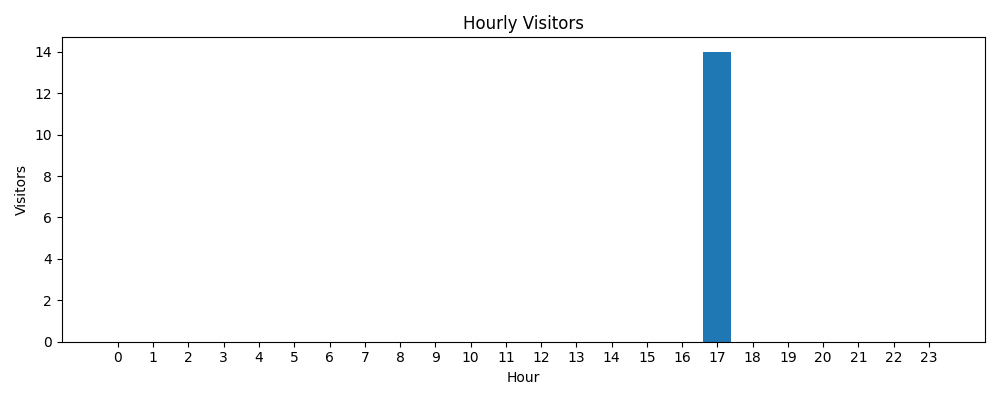
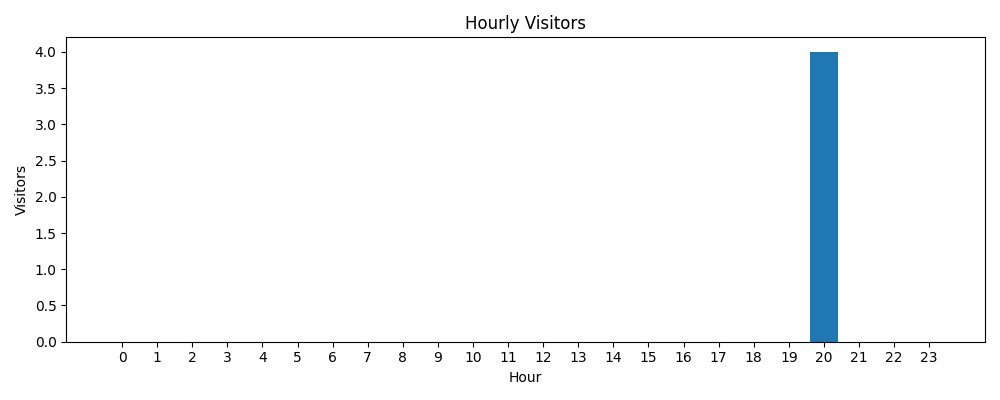
Refactor: move dashboard into separate module

diff --git a/dashboard.html b/dashboard.html
@@ -38,6 +38,15 @@
             border-radius:15px;
             text-align:center;
         }
+        .card ul{
+        margin-top:15px;
+        padding-left:20px;
+        }
+
+        .card li{
+        margin-bottom:10px;
+        font-size:18px;
+        }
 
         .value{
             font-size:42px;
@@ -86,6 +95,18 @@
 <div class="value">{{data.risk_score}}</div>
 </div>
 
+
+
+<div class="card">
+    <h2>AI Recommendation</h2>
+    <ul>
+    {% for rec in data.recommendation %}
+        <li>{{ rec }}</li>
+    {% endfor %}
+    </ul>
+</div>
+
+
 </div>
 
 <div class="section">
@@ -112,6 +133,16 @@
 
 <img src="/static/heatmap.png">
 </div>
+
+
+
+<script>
+setInterval(() => {
+    location.reload();
+}, 5000);
+</script>
+
+
 
 </body>
 

diff --git a/main.py b/main.py
@@ -15,16 +15,17 @@ from reports import save_daily_summary
 from flask import Flask, Response, render_template_string
 from dashboard_data import get_latest_summary
 from live_data import live_metrics
-
-
-
+from recommendations import get_recommendation
+from dashboard import start_dashboard
+import dashboard
 with open("dashboard.html", "r", encoding="utf-8") as f:
     HTML = f.read()
-app = Flask(__name__) 
 
 
 
-processed_frame = None
+
+
+
 last_dashboard_update = 0
 
 from config import (
@@ -121,12 +122,12 @@ from utils import (
 
 
 def run_detector():
-    global processed_frame
+    
     global enter_count, exit_count
     global next_id
     global current_day
     global peak_occupancy
-    global processed_frame
+    
     global last_dashboard_update
 
     print("RUN DETECTOR STARTED")
@@ -342,7 +343,7 @@ def run_detector():
         live_metrics["risk_score"] = round(
         occupancy_score + dwell_score + flow_score,1
     )  
-
+        live_metrics["recommendation"] = get_recommendation(live_metrics)
 
         heat = get_heatmap()
        
@@ -360,7 +361,7 @@ def run_detector():
         0
     )
     
-        processed_frame = frame.copy()
+        dashboard.processed_frame = frame.copy()
 
         dwell_times = [
         p["total_time"] + (now - p["enter_time"] if p["inside"] and p["enter_time"] else 0)
@@ -393,42 +394,13 @@ def run_detector():
 from threading import Thread
 
 
-def generate_frames():
-    global processed_frame
-
-    while True:
-        if processed_frame is None:
-            continue
-
-        ret, buffer = cv2.imencode(".jpg", processed_frame)
-        frame = buffer.tobytes()
-
-        yield (
-            b'--frame\r\n'
-            b'Content-Type: image/jpeg\r\n\r\n'
-            + frame +
-            b'\r\n'
-        )
 
 
-@app.route("/video_feed")
-def video_feed():
-    return Response(
-        generate_frames(),
-        mimetype="multipart/x-mixed-replace; boundary=frame"
-    )
 
 
-@app.route("/")
-def home():
-    data = {
-        "total_visits": live_metrics["visitors"],
-        "current_occupancy": live_metrics["occupancy"],
-        "peak_hour": live_metrics["peak_hour"],
-        "avg_dwell": round(live_metrics["avg_dwell"], 1),
-        "risk_score": round(live_metrics["risk_score"], 2),
-    }
-    return render_template_string(HTML, data=data)
+
+
+
 
 
 if __name__ == "__main__":
@@ -440,9 +412,6 @@ if __name__ == "__main__":
 
     detector.start()
 
-    app.run(
-        host="0.0.0.0",
-        port=5000,
-        debug=False
-    )
+    start_dashboard(HTML)
+    
 

diff --git a/dashboard.py b/dashboard.py
@@ -1,0 +1,61 @@
+import cv2
+from flask import Flask, Response, render_template_string
+from live_data import live_metrics
+
+processed_frame = None
+
+def generate_frames():
+
+    global processed_frame
+
+    while True:
+
+        if processed_frame is None:
+            continue
+
+        ret, buffer = cv2.imencode(".jpg", processed_frame)
+
+        frame = buffer.tobytes()
+
+        yield (
+            b'--frame\r\n'
+            b'Content-Type: image/jpeg\r\n\r\n'
+            + frame +
+            b'\r\n'
+        )
+
+
+def start_dashboard(html):
+
+    app = Flask(__name__)
+
+    @app.route("/video_feed")
+    def video_feed():
+
+        return Response(
+            generate_frames(),
+            mimetype="multipart/x-mixed-replace; boundary=frame"
+        )
+
+    @app.route("/")
+    def home():
+
+        data = {
+            "total_visits": live_metrics["visitors"],
+            "current_occupancy": live_metrics["occupancy"],
+            "peak_hour": live_metrics["peak_hour"],
+            "avg_dwell": round(live_metrics["avg_dwell"],1),
+            "risk_score": round(live_metrics["risk_score"],1),
+            "recommendation": live_metrics["recommendation"]
+        }
+
+        return render_template_string(
+            html,
+            data=data
+        )
+
+    app.run(
+        host="0.0.0.0",
+        port=5000,
+        debug=False
+    )

diff --git a/recommendations.py b/recommendations.py
@@ -1,0 +1,35 @@
+def get_recommendation(data):
+
+    recommendations = []
+
+    visitors = data["visitors"]
+    occupancy = data["occupancy"]
+    dwell = data["avg_dwell"]
+    risk = data["risk_score"]
+
+    if visitors < 20:
+        recommendations.append(
+            "🔵 Foot traffic is low. Consider running promotions."
+        )
+
+    if occupancy >= 5:
+        recommendations.append(
+            "🟠 Store occupancy is increasing. Monitor checkout queues."
+        )
+
+    if dwell > 120:
+        recommendations.append(
+            "🟠 Customers are spending a long time inside. Check for bottlenecks."
+        )
+
+    if risk >= 70:
+        recommendations.append(
+            "🔴 High congestion risk detected."
+        )
+
+    if not recommendations:
+        recommendations.append(
+            "🟢 Store operations look healthy."
+        )
+
+    return recommendations
